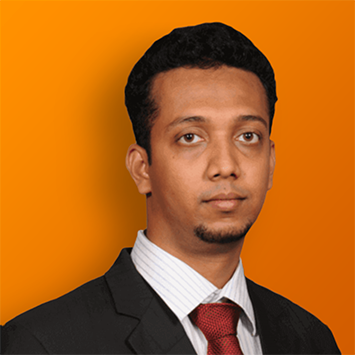
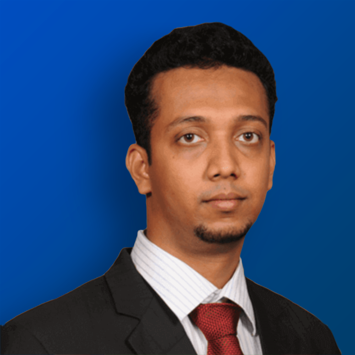
Public Team

diff --git a/index.html b/index.html
@@ -24,9 +24,9 @@
     <!-- Magnific Popup CSS -->
     <link rel="stylesheet" href="assets/css/magnific-popup.css">
     <!-- Style CSS -->
-    <link rel="stylesheet" href="assets/css/style.css?ver=2.2">
+    <link rel="stylesheet" href="assets/css/style.css?ver=3.1">
     <link rel="stylesheet" href="assets/css/responsive.css">
-    <link id="layoutstyle" rel="stylesheet" href="assets/color/theme.css?ver=2.2">
+    <link id="layoutstyle" rel="stylesheet" href="assets/color/theme.css?ver=3.1">
     <link rel="stylesheet" href="assets/fontawesome/css/all.css">
     <!-- Google Analytics -->
     <script>
@@ -45,7 +45,7 @@
 <!-- LOADER -->
 <div class="preloader">
     <div id="g-spinner" class="loading">
-        <img class="logo_light" src="assets/images/loading.gif?ver=2.2" alt="loading"/>
+        <img class="logo_light" src="assets/images/loading.gif?ver=3.1" alt="loading"/>
     </div>
 </div>
 <!-- END LOADER -->
@@ -55,8 +55,8 @@
     <div class="container">
         <nav class="navbar navbar-expand-lg">
             <a class="navbar-brand page-scroll animation" href="#home" data-animation="fadeInLeft" data-animation-delay="0.8s">
-                <img class="logo_light" src="assets/images/logo.png?ver=2.2" alt="Thingschain's Logo"/>
-                <img class="logo_dark" src="assets/images/logo_dark.png?ver=2.2" alt="Thingschain's Logo"/>
+                <img class="logo_light" src="assets/images/logo.png?ver=3.1" alt="Thingschain's Logo"/>
+                <img class="logo_dark" src="assets/images/logo_dark.png?ver=3.1" alt="Thingschain's Logo"/>
             </a>
             <button class="navbar-toggler animation" data-animation="fadeInRight" data-animation-delay="1.2s" type="button" data-toggle="collapse" data-target="#navbarSupportedContent"
                     aria-controls="navbarSupportedContent" aria-expanded="false" aria-label="Toggle navigation"><span class="ion-android-menu"></span></button>
@@ -92,22 +92,22 @@
             </div>
             <div class="col-lg-6 col-md-12 col-sm-12 order-first">
                 <div class="banner_image_right res_md_mb_50 res_xs_mb_30 animation" data-animation="fadeInRight" data-animation-delay="1.5s">
-                    <img src="assets/images/banner_vector.png?ver=2.2" alt="banner_vector"/>
+                    <img src="assets/images/banner_vector.png?ver=3.1" alt="banner_vector"/>
                 </div>
             </div>
         </div>
     </div>
-    <div class="section_wave" style="background-image:url('assets/images/banner_wave.png?ver=2.2');"></div>
+    <div class="section_wave" style="background-image:url('assets/images/banner_wave.png?ver=3.1');"></div>
 </section>
 <!-- END SECTION BANNER -->
 
 <!-- START SECTION TECHNOLOGY OVERVIEW -->
-<section id="how_it_work" class="how_work" data-parallax="scroll" data-image-src="assets/images/how_it_work_bg.png?ver=2.2">
+<section id="how_it_work" class="how_work" data-parallax="scroll" data-image-src="assets/images/how_it_work_bg.png?ver=3.1">
     <div class="container">
         <div class="row align-items-center">
             <div class="col-lg-6 col-md-6 col-sm-12">
                 <div class="animation res_sm_mb_30" data-animation="fadeInLeft" data-animation-delay="0.1s">
-                    <img src="assets/images/problem.png?ver=2.2" alt="The Problem of current blockchain not suitable for IoT."/>
+                    <img src="assets/images/problem.png?ver=3.1" alt="The Problem of current blockchain not suitable for IoT."/>
                 </div>
             </div>
             <div class="col-lg-6 col-md-6 col-sm-12">
@@ -124,7 +124,7 @@
     </div>
     <div class="shape shap1"></div>
 </section>
-<section id="" class="how_work" data-parallax="scroll" data-image-src="assets/images/how_it_work_bg.png?ver=2.2">
+<section id="" class="how_work" data-parallax="scroll" data-image-src="assets/images/how_it_work_bg.png?ver=3.1">
     <div class="container">
         <div class="row text-center">
             <div class="col-lg-12 col-md-12 col-sm-12">
@@ -173,7 +173,7 @@
         <div class="row align-items-center">
             <div class="col-lg-6 col-md-6 col-sm-12">
                 <div class="animation res_sm_mb_30" data-animation="fadeInLeft" data-animation-delay="0.1s">
-                    <img src="assets/images/about_img.png?ver=2.2" alt="About Thingschain"/>
+                    <img src="assets/images/about_img.png?ver=3.1" alt="About Thingschain"/>
                 </div>
             </div>
             <div class="col-lg-6 col-md-6 col-sm-12">
@@ -200,25 +200,25 @@
         <div class="row text-center small_space benefit_wrap">
             <div class="col-lg-3 col-md-3 col-6">
                 <div class="benefit_box animation" data-animation="fadeInUp" data-animation-delay="0.1s">
-                    <img src="assets/images/benefit/Transaction.png?ver=2.2" alt="Up to 1 million TPS"/>
+                    <img src="assets/images/benefit/Transaction.png?ver=3.1" alt="Up to 1 million TPS"/>
                     <h4>Up to <br>1 million TPS</h4>
                 </div>
             </div>
             <div class="col-lg-3 col-md-3 col-6">
                 <div class="benefit_box animation" data-animation="fadeInUp" data-animation-delay="0.2s">
-                    <img src="assets/images/benefit/51.png?ver=2.2" alt="Unable to attack 51%"/>
+                    <img src="assets/images/benefit/51.png?ver=3.1" alt="Unable to attack 51%"/>
                     <h4>Unable to attack <br>51%</h4>
                 </div>
             </div>
             <div class="col-lg-3 col-md-3 col-6">
                 <div class="benefit_box animation" data-animation="fadeInUp" data-animation-delay="0.3s">
-                    <img src="assets/images/benefit/Connection.png?ver=2.2" alt="Connect everything on-chain"/>
+                    <img src="assets/images/benefit/Connection.png?ver=3.1" alt="Connect everything on-chain"/>
                     <h4>Connect everything <br>on-chain</h4>
                 </div>
             </div>
             <div class="col-lg-3 col-md-3 col-6">
                 <div class="benefit_box animation" data-animation="fadeInUp" data-animation-delay="0.4s">
-                    <img src="assets/images/benefit/Centralize.png?ver=2.2" alt="Centralize in De-centralize"/>
+                    <img src="assets/images/benefit/Centralize.png?ver=3.1" alt="Centralize in De-centralize"/>
                     <h4>Centralize in <br>De-centralize</h4>
                 </div>
             </div>
@@ -299,7 +299,7 @@
         <div class="row align-items-center flex-row-reverse res_md_mt_20">
             <div class="col-md-7">
                 <div class="res_sm_mb_30 text-center animation" data-animation="fadeInRight" data-animation-delay="0.2s">
-                    <img src="assets/images/token-distribution.png?ver=2.2" alt="token-distribution"/>
+                    <img src="assets/images/token-distribution.png?ver=3.1" alt="token-distribution"/>
                 </div>
             </div>
             <div class="col-md-5">
@@ -438,12 +438,12 @@
             </div>
         </div>
     </div>
-    <div style="background-image:url('assets/images/wave.png?ver=2.2');" class="section_wave2"></div>
+    <div style="background-image:url('assets/images/wave.png?ver=3.1');" class="section_wave2"></div>
 </section>
 <!-- END SECTION TIMELINE -->
 
 <!-- START SECTION TEAM -->
-<section id="team" class="team_wrap" data-parallax="scroll" data-image-src="assets/images/team_bg.png?ver=2.2">
+<section id="team" class="team_wrap" data-parallax="scroll" data-image-src="assets/images/team_bg.png?ver=3.1">
     <div class="container">
         <div class="row text-center">
             <div class="col-lg-8 col-md-12 offset-lg-2">
@@ -456,54 +456,58 @@
         <div class="row small_space justify-content-center">
             <div class="col-lg-9 col-md-12">
                 <div class="row">
+                    <!--Pranay Prateek-->
                     <div class="col-lg-3 offset-lg-0 col-md-6 offset-md-3 col-sm-6 offset-sm-3">
                         <div class="team_box animation" data-animation="fadeInUp" data-animation-delay="0.7s">
-                            <div class="team_img text-center"><img src="assets/images/team/teamdev1.png?ver=2.2" alt="team7"/>
+                            <div class="team_img text-center"><img src="assets/images/team/teamdev1.png?ver=3.1" alt="ThingsChain Team"/>
                                 <div class="social_team list_none">
                                     <ul>
-                                        <li><a href="https://www.linkedin.com/in/jerry-jianjun-9a233a166/"><i class="ion-social-linkedin"></i></a></li>
+                                        <li><a href="https://www.linkedin.com/in/pranay-prateek-b8b563b"><i class="ion-social-linkedin"></i></a></li>
                                     </ul>
                                 </div>
                             </div>
                             <div class="team_info gradient_box text-center">
-                                <h4><a href="#" class="content-popup">Jerry Jianjun</a></h4>
-                                <p>Blockchain <br>Developer</p>
+                                <h4><a href="https://www.linkedin.com/in/pranay-prateek-b8b563b" class="content-popup">Pranay Prateek</a></h4>
+                                <p>Blockchain <br> Consultant</p>
                             </div>
                         </div>
                     </div>
+                    <!--Jason Tang-->
                     <div class="col-lg-3 offset-lg-0 col-md-6 offset-md-3 col-sm-6 offset-sm-3">
                         <div class="team_box animation" data-animation="fadeInUp" data-animation-delay="0.7s">
-                            <div class="team_img text-center"><img src="assets/images/team/teamdev2.png?ver=2.2" alt="team7"/>
+                            <div class="team_img text-center"><img src="assets/images/team/teamdev2.png?ver=3.1" alt="ThingsChain Team"/>
                                 <div class="social_team list_none">
                                     <ul>
-                                        <li><a href="https://www.linkedin.com/in/jerry-jianjun-9a233a166/"><i class="ion-social-linkedin"></i></a></li>
+                                        <li><a href="https://www.linkedin.com/in/jason-tang-39734a166/"><i class="ion-social-linkedin"></i></a></li>
                                     </ul>
                                 </div>
                             </div>
                             <div class="team_info gradient_box text-center">
-                                <h4><a href="#" class="content-popup">Jerry Jianjun</a></h4>
-                                <p>Blockchain <br>Developer</p>
+                                <h4><a href="https://www.linkedin.com/in/jason-tang-39734a166/" class="content-popup">Jason Tang</a></h4>
+                                <p>Project manager <br> Core Developer</p>
                             </div>
                         </div>
                     </div>
+                    <!--Clark Wang-->
                     <div class="col-lg-3 offset-lg-0 col-md-6 offset-md-3 col-sm-6 offset-sm-3">
                         <div class="team_box animation" data-animation="fadeInUp" data-animation-delay="0.7s">
-                            <div class="team_img text-center"><img src="assets/images/team/teamdev3.png?ver=2.2" alt="team7"/>
+                            <div class="team_img text-center"><img src="assets/images/team/teamdev3.png?ver=3.1" alt="ThingsChain Team"/>
                                 <div class="social_team list_none">
                                     <ul>
-                                        <li><a href="https://www.linkedin.com/in/jerry-jianjun-9a233a166/"><i class="ion-social-linkedin"></i></a></li>
+                                        <li><a href="https://www.linkedin.com/in/clark-wang-29834b166/"><i class="ion-social-linkedin"></i></a></li>
                                     </ul>
                                 </div>
                             </div>
                             <div class="team_info gradient_box text-center">
-                                <h4><a href="#" class="content-popup">Jerry Jianjun</a></h4>
-                                <p>Blockchain <br>Developer</p>
+                                <h4><a href="https://www.linkedin.com/in/clark-wang-29834b166/" class="content-popup">Clark Wang</a></h4>
+                                <p>Technical Architect<br>Core Developer</p>
                             </div>
                         </div>
                     </div>
+                    <!--Jerry Jianjun-->
                     <div class="col-lg-3 offset-lg-0 col-md-6 offset-md-3 col-sm-6 offset-sm-3">
                         <div class="team_box animation" data-animation="fadeInUp" data-animation-delay="0.7s">
-                            <div class="team_img text-center"><img src="assets/images/team/teamdev4.png?ver=2.2" alt="team7"/>
+                            <div class="team_img text-center"><img src="assets/images/team/teamdev4.png?ver=3.1" alt="ThingsChain Team"/>
                                 <div class="social_team list_none">
                                     <ul>
                                         <li><a href="https://www.linkedin.com/in/jerry-jianjun-9a233a166/"><i class="ion-social-linkedin"></i></a></li>
@@ -511,7 +515,7 @@
                                 </div>
                             </div>
                             <div class="team_info gradient_box text-center">
-                                <h4><a href="#" class="content-popup">Jerry Jianjun</a></h4>
+                                <h4><a href="https://www.linkedin.com/in/jerry-jianjun-9a233a166/" class="content-popup">Jerry Jianjun</a></h4>
                                 <p>Blockchain <br>Developer</p>
                             </div>
                         </div>
@@ -535,16 +539,16 @@
                     <p class="animation" data-animation="fadeInUp" data-animation-delay="0.2s">This white paper outlines the technology used in Thingschain. We anticipate that changes to this
                         technology will occur as Thingschain is developed. The white paper will be updated to reflect any future changes.</p>
                 </div>
-                <a class="btn btn-default animation" data-animation="fadeInUp" data-animation-delay="0.3s" href="Official_Thingschain_Whitepaper.pdf?ver=2.2">
+                <a class="btn btn-default animation" data-animation="fadeInUp" data-animation-delay="0.3s" href="Official_Thingschain_Whitepaper.pdf?ver=3.1">
                     <span class="ion-android-download"></span> English Version
                 </a>
-                <a class="btn btn-default animation" data-animation="fadeInUp" data-animation-delay="0.3s" href="Official_Thingschain_Whitepaper_Korean.pdf?ver=2.2">
+                <a class="btn btn-default animation" data-animation="fadeInUp" data-animation-delay="0.3s" href="Official_Thingschain_Whitepaper_Korean.pdf?ver=3.1">
                     <span class="ion-android-download"></span>Korean Verison
                 </a>
             </div>
             <div class="col-lg-4 offset-lg-1 col-md-5">
                 <div class="res_md_mt_30 animation" data-animation="fadeInRight" data-animation-delay="0.1s">
-                    <img alt="whitepaper" src="assets/images/whitepaper.png?ver=2.2">
+                    <img alt="whitepaper" src="assets/images/whitepaper.png?ver=3.1">
                 </div>
             </div>
         </div>
@@ -565,32 +569,32 @@
         <div class="row align-items-center text_md_center">
             <div class="col-lg-2 col-md-4 col-6">
                 <div class="animation" data-animation="fadeInUp" data-animation-delay="0.1s">
-                    <img src="assets/images/partners/fundrecs.png?ver=2.2" alt="Thingschain's Partner Fund Recs"/>
+                    <img src="assets/images/partners/fundrecs.png?ver=3.1" alt="Thingschain's Partner Fund Recs"/>
                 </div>
             </div>
             <div class="col-lg-2 col-md-4 col-6">
                 <div class="animation" data-animation="fadeInUp" data-animation-delay="0.2s">
-                    <img src="assets/images/partners/dfund.png?ver=2.2" alt="Thingschain's Partner DFund"/>
+                    <img src="assets/images/partners/dfund.png?ver=3.1" alt="Thingschain's Partner DFund"/>
                 </div>
             </div>
             <div class="col-lg-2 col-md-4 col-6">
                 <div class="animation" data-animation="fadeInUp" data-animation-delay="0.3s">
-                    <img src="assets/images/partners/funcity.png?ver=2.2" alt="Thingschain's Partner Funcity"/>
+                    <img src="assets/images/partners/funcity.png?ver=3.1" alt="Thingschain's Partner Funcity"/>
                 </div>
             </div>
             <div class="col-lg-2 col-md-4 col-6">
                 <div class="animation" data-animation="fadeInUp" data-animation-delay="0.4s">
-                    <img src="assets/images/partners/iotlab.png?ver=2.2" alt="Thingschain's Partner IoT Lab"/>
+                    <img src="assets/images/partners/iotlab.png?ver=3.1" alt="Thingschain's Partner IoT Lab"/>
                 </div>
             </div>
             <div class="col-lg-2 col-md-4 col-6">
                 <div class="animation" data-animation="fadeInUp" data-animation-delay="0.5s">
-                    <img src="assets/images/partners/chenfund.png?ver=2.2" alt="Thingschain's Partner ZhenFund"/>
+                    <img src="assets/images/partners/chenfund.png?ver=3.1" alt="Thingschain's Partner ZhenFund"/>
                 </div>
             </div>
             <div class="col-lg-2 col-md-4 col-6">
                 <div class="animation" data-animation="fadeInUp" data-animation-delay="0.6s">
-                    <img src="assets/images/partners/vcfinance.png?ver=2.2" alt="Thingschain's Partner Finance"/>
+                    <img src="assets/images/partners/vcfinance.png?ver=3.1" alt="Thingschain's Partner Finance"/>
                 </div>
             </div>
         </div>
@@ -606,7 +610,7 @@
             <div class="row">
                 <div class="col-lg-6 offset-lg-3 col-md-8 offset-md-2">
                     <div class="footer_logo animation" data-animation="fadeInUp" data-animation-delay="0.1s">
-                        <a href="index.html"><img alt="logo" src="assets/images/logo.png?ver=2.2"></a>
+                        <a href="index.html"><img alt="logo" src="assets/images/logo.png?ver=3.1"></a>
                     </div>
                     <div class="newsletter_form large_space">
                     </div>
@@ -662,7 +666,7 @@
 <!-- particles min js  -->
 <script src="assets/js/particles.min.js"></script>
 <!-- scripts js -->
-<script src="assets/js/scripts.js?ver=2.2"></script>
+<script src="assets/js/scripts.js?ver=3.1"></script>
 
 </body>
 </html>

diff --git a/assets/css/style.css b/assets/css/style.css
@@ -1660,13 +1660,14 @@ header a:hover,.navbar-nav li a.active {
 }
 .team_info h4 a {
 	color: #ffffff;
-	font-size: 22px;
+	font-size: 18px;
 	font-weight:bold;
 }
 .team_info p {
 	color: #ffffff;
 	line-height: normal;
 	margin: 0;
+	font-size: 15px;
 }
 .team_img {
 	overflow: hidden;

diff --git a/assets/color/theme.css b/assets/color/theme.css
@@ -58,7 +58,7 @@ button,
 .v_light .faq_content .card, 
 .v_light .faq_content .card-header a,
 .v_light .footer_social li a:hover  {
-	background-color: #F37021;
+	background-color: #2d3441;
 }
 .roadmap .owl-nav .disabled i {
 	background-color: #F37021;
